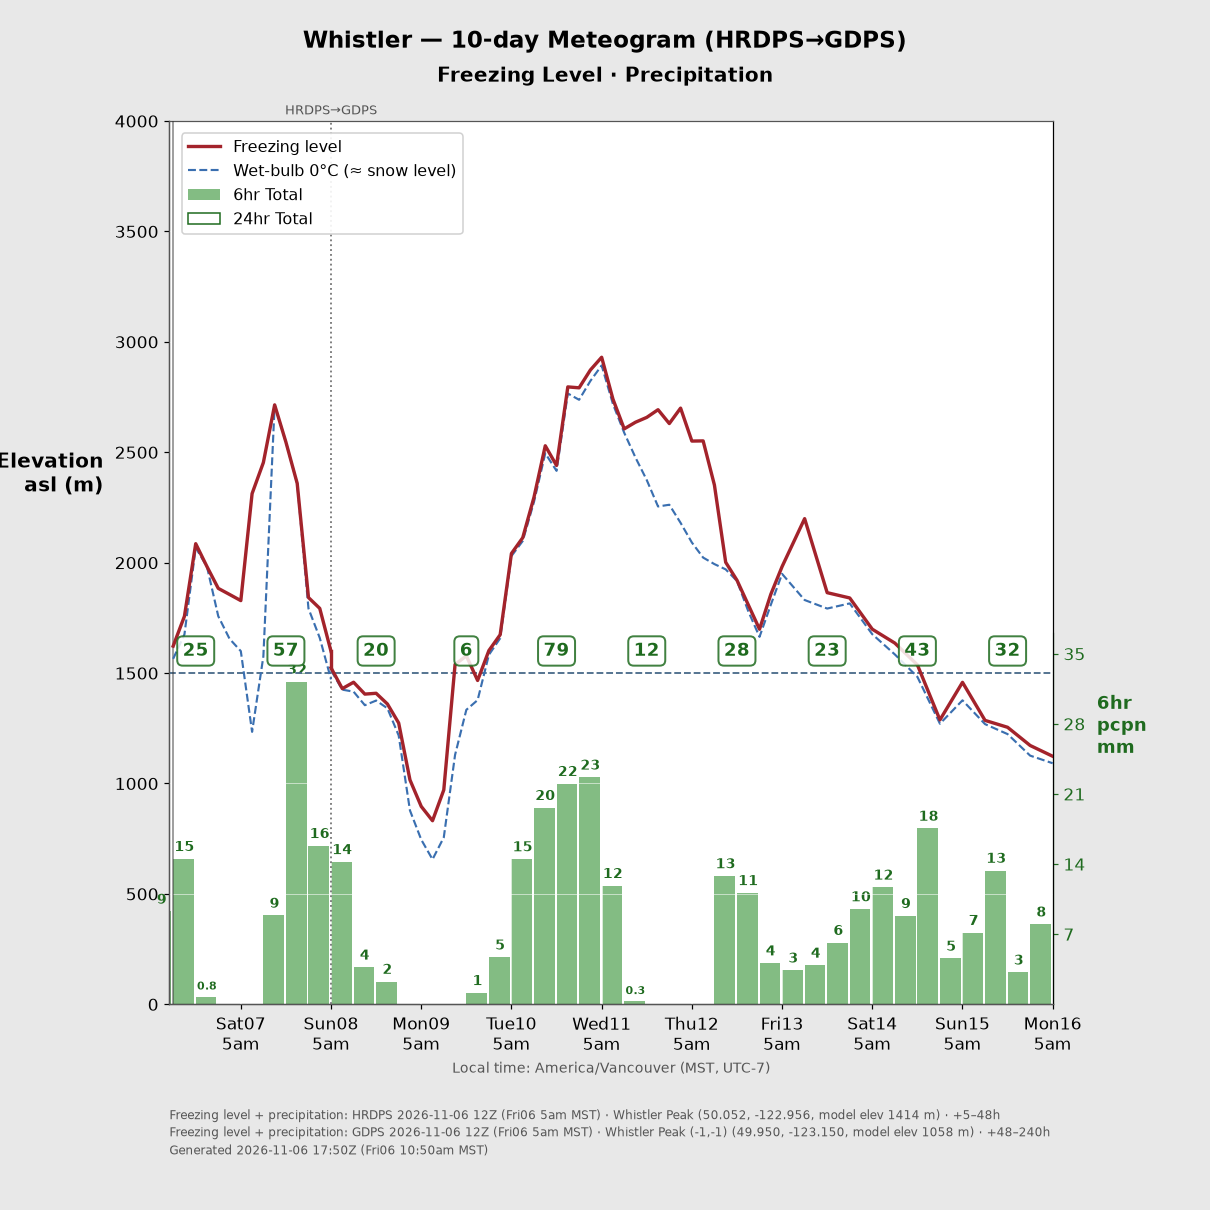
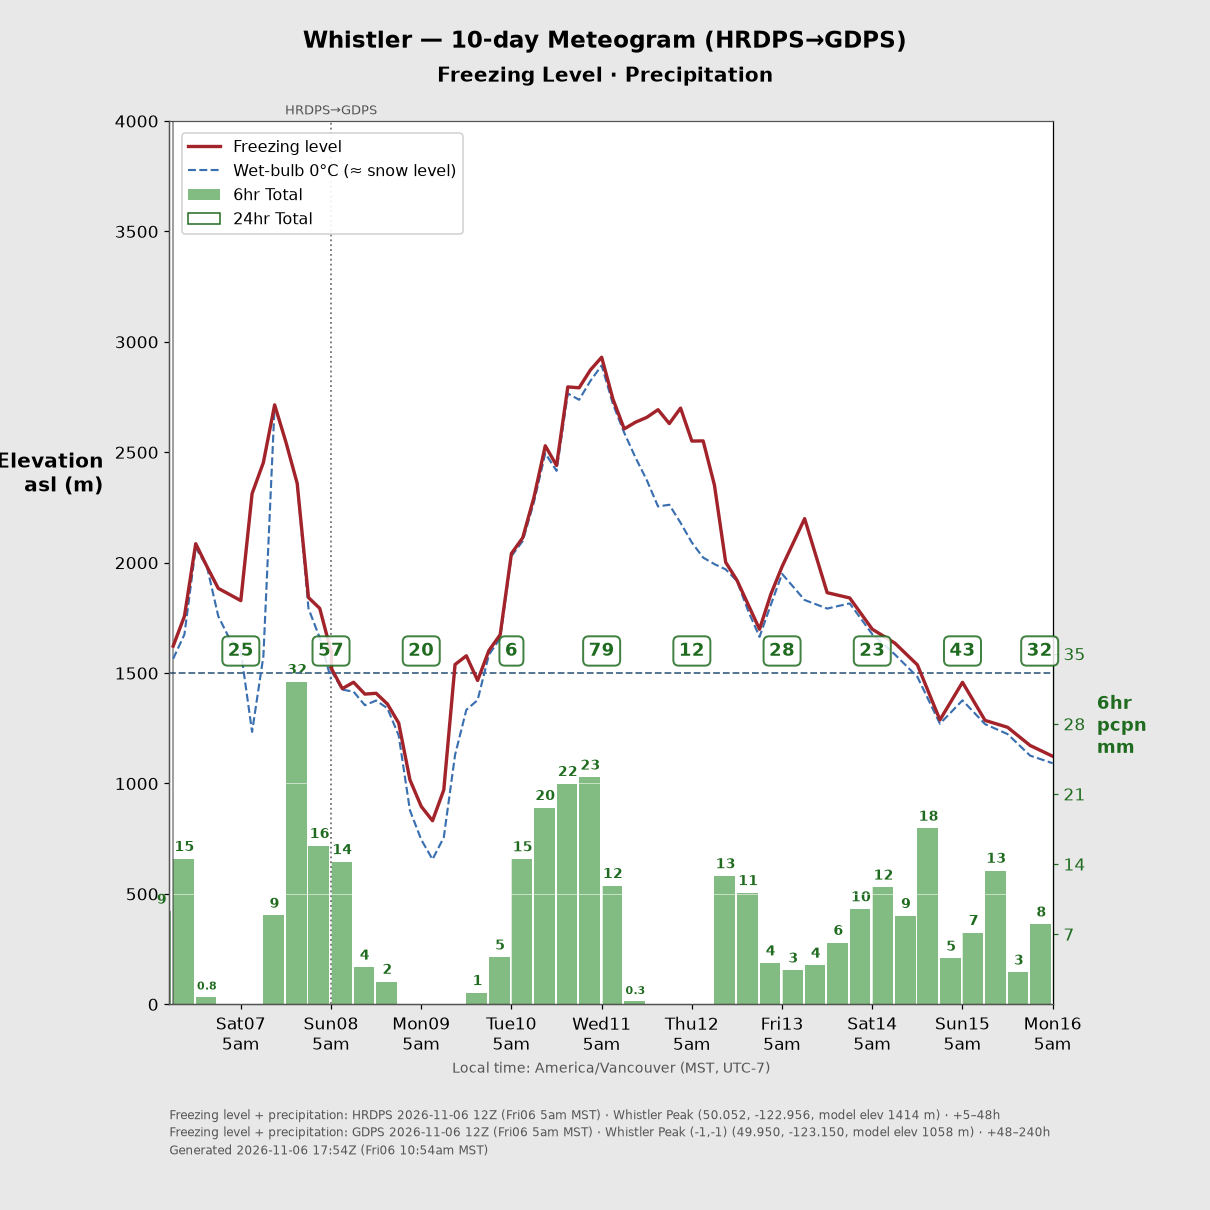
Draw 24h precip totals at the end of their period
The boxed total now sits on the marker where its period ends instead of
mid-period; a box on the right edge is right-aligned to stay inside the
plot. README chart re-rendered.

Changed region(s): [[0.1529, 0.5198, 0.8868, 0.5504]]

diff --git a/skiforecast/chart.py b/skiforecast/chart.py
@@ -143,10 +143,12 @@ def render_chart(data: ChartData, out_path: str | pathlib.Path) -> pathlib.Path:
         # --- boxed totals
         box_y = 0.40
         for tot in data.precip_totals:
-            cx = (mdates.date2num(tot.start) + mdates.date2num(tot.end)) / 2
+            # drawn at the end of its period (a period running past the chart sits on the right edge)
+            cx = min(mdates.date2num(tot.end), x1)
             if not (x0 <= cx <= x1):
                 continue
-            ax.text(cx, box_y, _fmt_mm(tot.mm), transform=ax.get_xaxis_transform(), ha="center",
+            ha = "right" if cx >= x1 else "center"   # keep a box on the right edge inside the plot
+            ax.text(cx, box_y, _fmt_mm(tot.mm), transform=ax.get_xaxis_transform(), ha=ha,
                     va="center", fontsize=12, fontweight="bold", color=st.precip_text_color, zorder=6,
                     bbox=dict(boxstyle="round,pad=0.3", facecolor="white", alpha=0.85,
                               edgecolor=st.precip_text_color,
